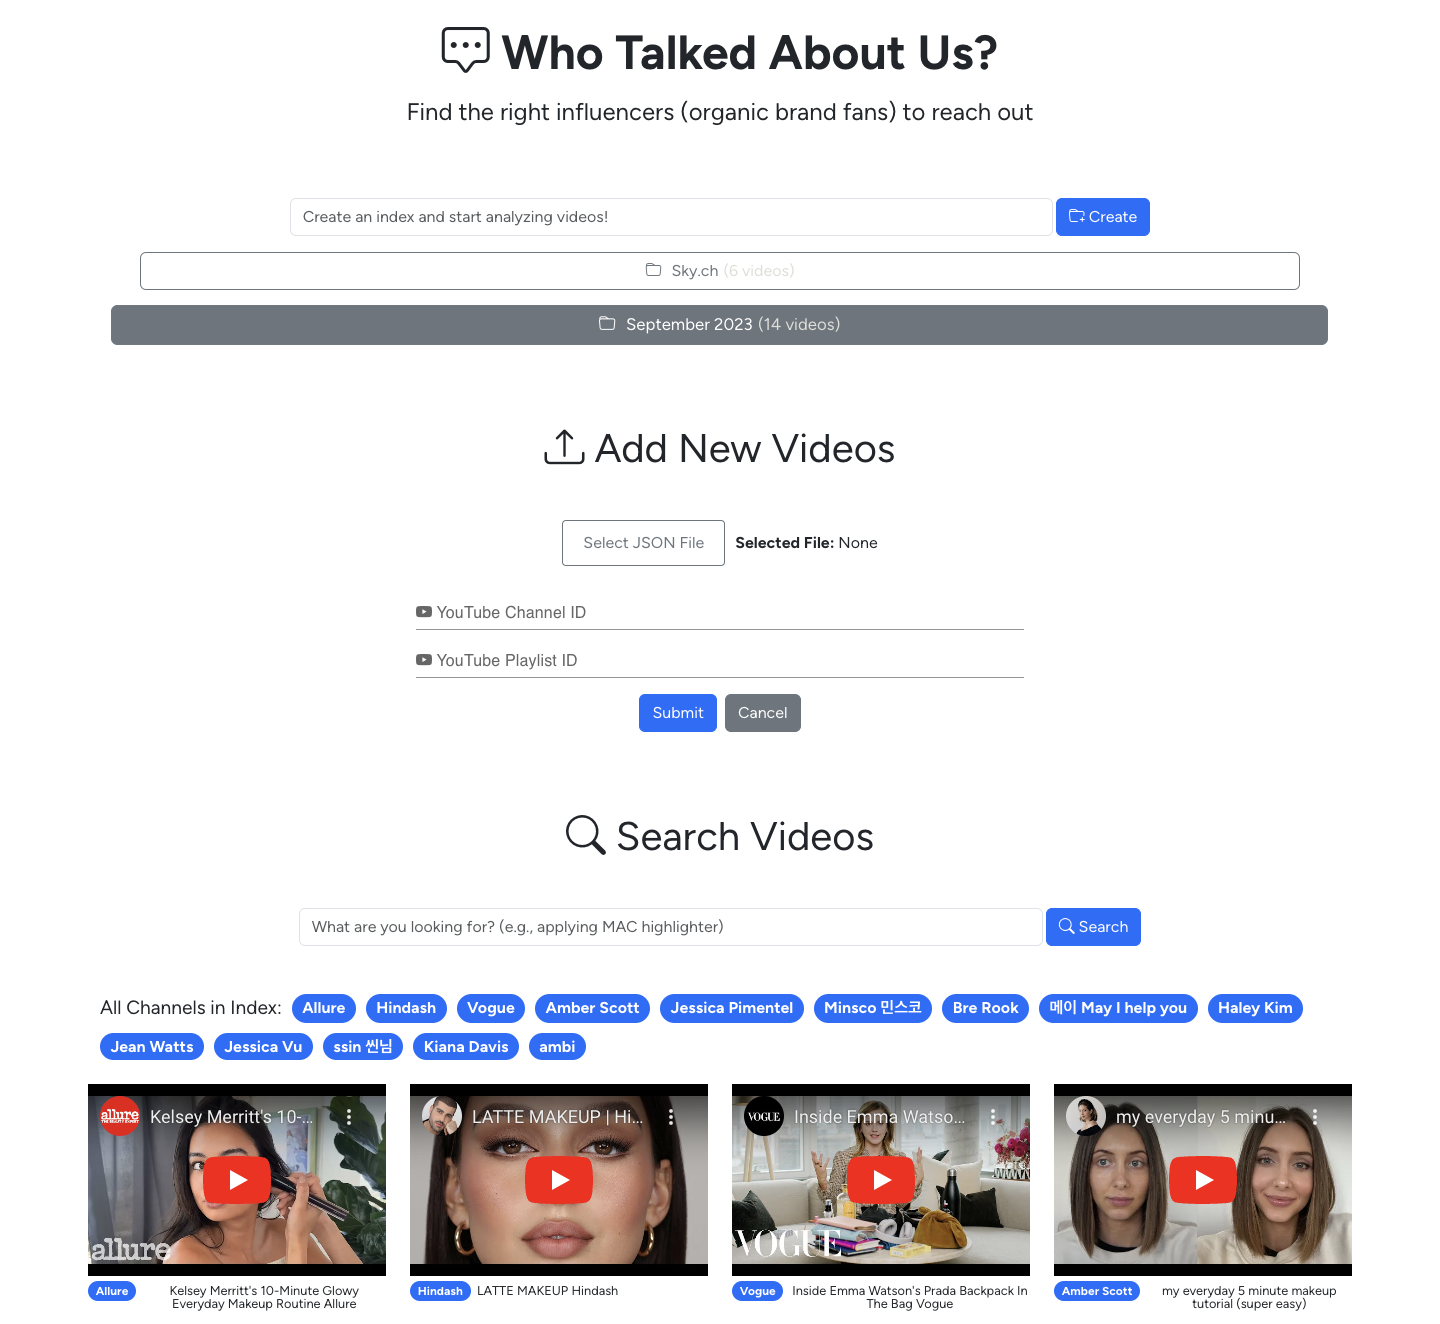
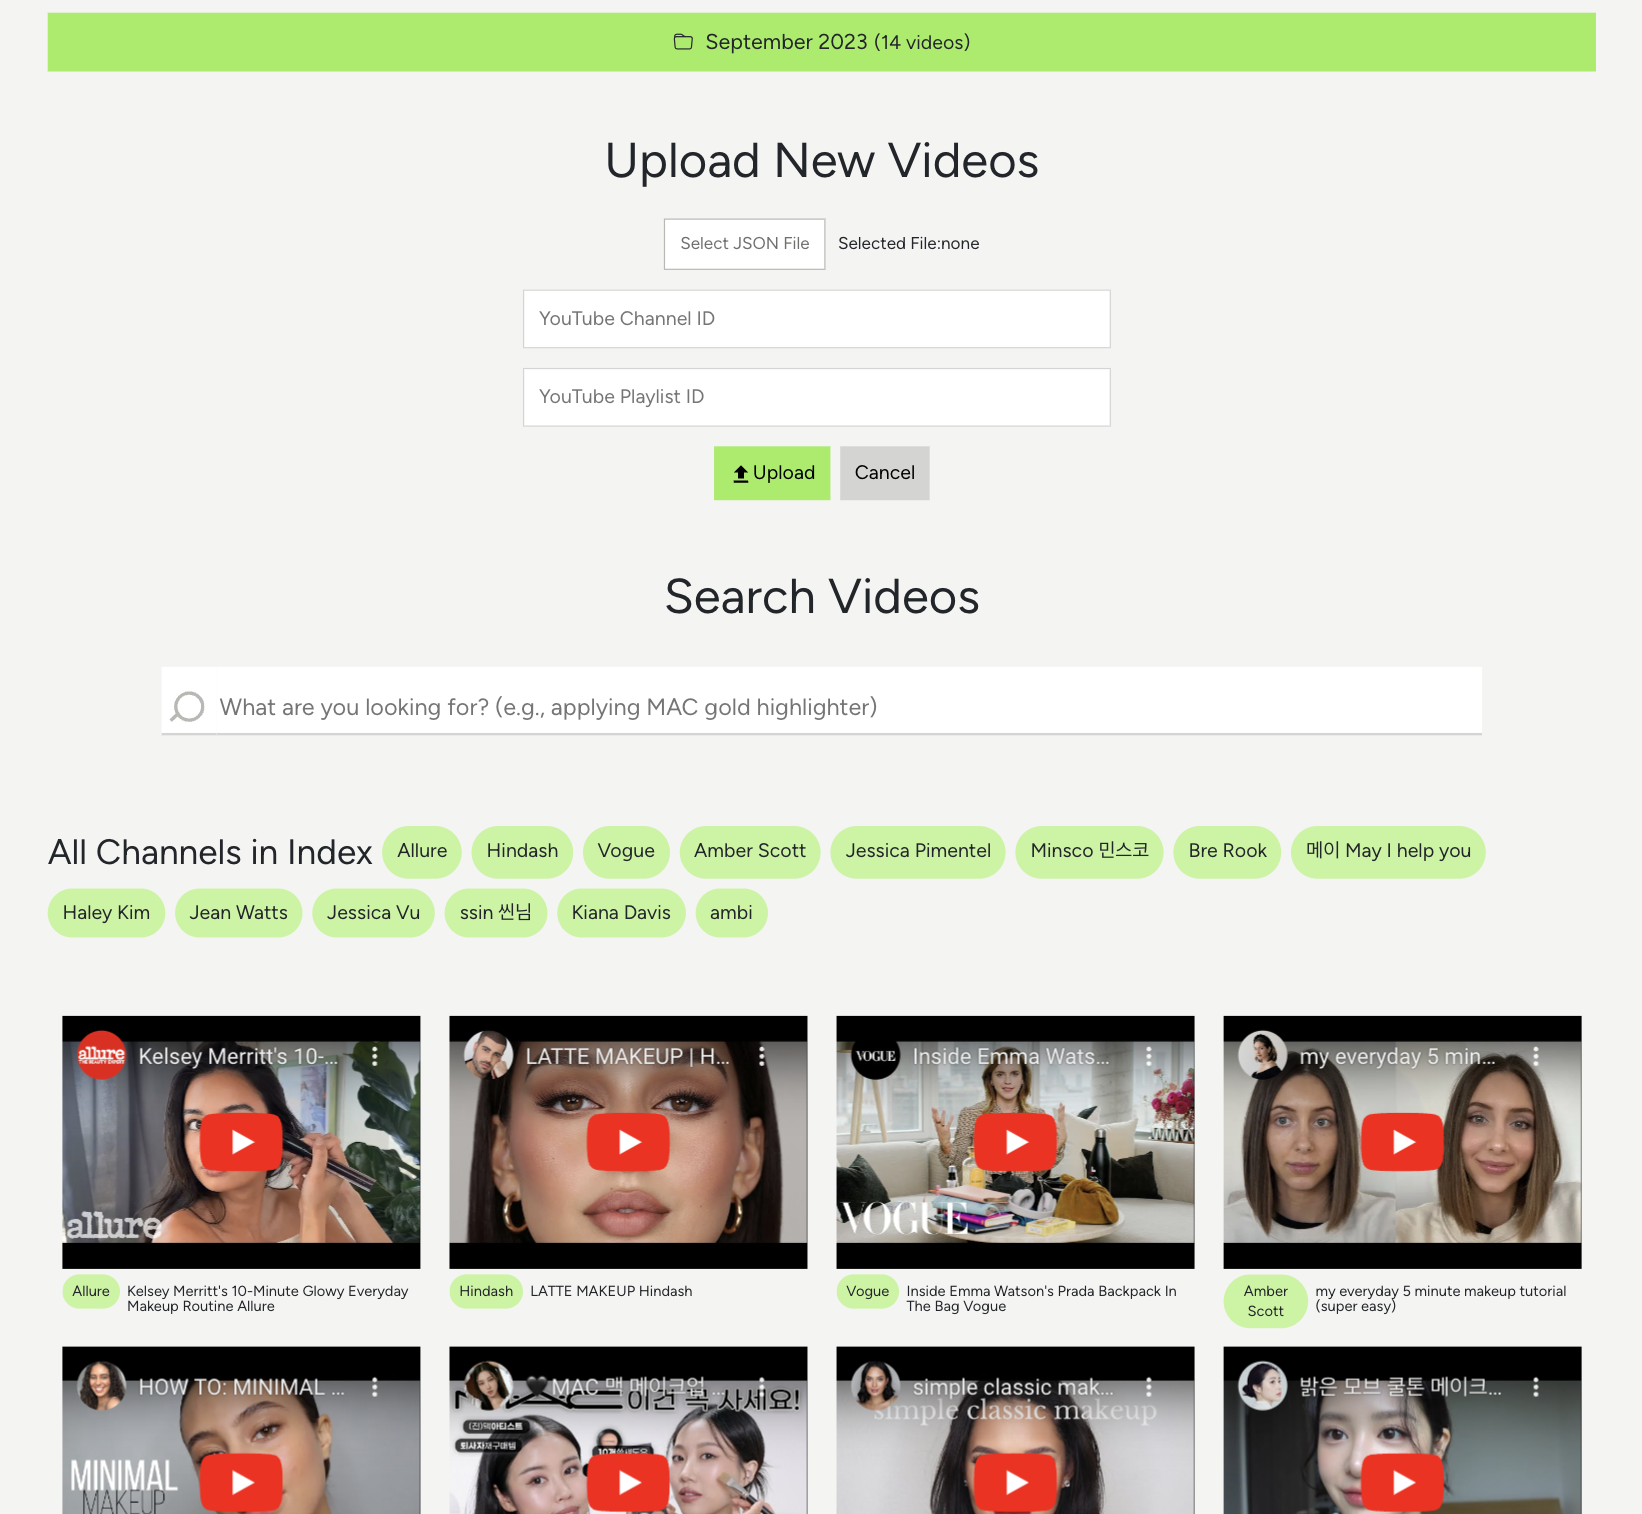
Clean up and update README screenshots

diff --git a/src/indexes/VideoIndex.js b/src/indexes/VideoIndex.js
@@ -2,11 +2,10 @@ import { useState, useEffect } from "react";
 import SearchForm from "../search/SearchForm";
 import TwelveLabsApi from "../api/api";
 import UploadYoutubeVideo from "../videos/UploadYouTubeVideo";
-import { Button, Container, Row, Col, Modal, Alert } from "react-bootstrap";
+import { Button, Container, Row, Modal } from "react-bootstrap";
 import SearchResultList from "../search/SearchResultList";
 import VideoList from "../videos/VideoList";
 import axios from "axios";
-import Badge from "react-bootstrap/Badge";
 import "./VideoIndex.css";
 import CustomPagination from "./CustomPagination";
 

diff --git a/src/videos/UploadYouTubeVideo.jsx b/src/videos/UploadYouTubeVideo.jsx
@@ -1,10 +1,6 @@
 import { useState} from 'react'
-import { Button, Card, Container} from "react-bootstrap";
-import TextField from '@mui/material/TextField'
+import {  Card, Container} from "react-bootstrap";
 import sanitize from 'sanitize-filename'
-import Typography from '@mui/material/Typography'
-import LinearProgress from '@mui/material/LinearProgress'
-import { Box } from '@mui/material'
 import "./UploadYouTubeVideo.css"
 import infoIcon from "../svg/Info.svg"
 

diff --git a/src/search/SearchResultList.js b/src/search/SearchResultList.js
@@ -1,5 +1,5 @@
 import React from "react";
-import { Col, Row, Badge, Container } from "react-bootstrap";
+import { Col, Row, Container } from "react-bootstrap";
 import ReactPlayer from "react-player";
 import { useState, useRef } from "react";
 import "./SearchResultList.css";
@@ -165,7 +165,7 @@ function SearchResultList({ index_id, searchResults, videos }) {
           ))}
         </div>
       )}
-      
+
     </div>
   );
 }

diff --git a/src/App.js b/src/App.js
@@ -55,7 +55,7 @@ function App() {
   return (
     <div className="App">
       <Container className="m-auto p-3">
-        <h1 className="m-3 display-5" style={{ fontWeight: "700" }}>
+        <h1 className="m-3 display-5" >
          Who Talked About Us?
         </h1>
         <h4>Find the right influencers (organic brand fans) to reach out </h4>

diff --git a/src/search/SearchForm.js b/src/search/SearchForm.js
@@ -1,8 +1,5 @@
 import React, { useState } from "react";
 import InputForm from "../common/InputForm";
-import Alert from "@mui/material/Alert";
-import IconButton from "@mui/material/IconButton";
-import CloseIcon from "@mui/icons-material/Close";
 import searchIcon from "../svg/Union.svg";
 import "./SearchForm.css";
 

diff --git a/src/indexes/IndexForm.js b/src/indexes/IndexForm.js
@@ -1,8 +1,5 @@
 import React, { useState } from "react";
 import InputForm from "../common/InputForm";
-import Alert from "@mui/material/Alert";
-import IconButton from "@mui/material/IconButton";
-import CloseIcon from "@mui/icons-material/Close";
 import icon from "../svg/Create.svg";
 import "./IndexForm.css";
 

diff --git a/src/indexes/CustomPagination.js b/src/indexes/CustomPagination.js
@@ -1,5 +1,5 @@
 import React from "react";
-import "./CustomPagination.css"; // Import the CSS file
+import "./CustomPagination.css"; 
 import nextIcon from "../svg/ChevronRight.svg";
 import nextIconDisabled from "../svg/ChevronRightDisabled.svg";
 import prevIcon from "../svg/ChevronLeft.svg";

diff --git a/src/indexes/VideoIndex.test.js b/src/indexes/VideoIndex.test.js
@@ -1,4 +1,4 @@
-import { render, fireEvent, waitFor } from "@testing-library/react";
+import { render } from "@testing-library/react";
 import VideoIndex from "./VideoIndex";
 import TwelveLabsApi from "../api/api";
 

diff --git a/src/videos/VideoList.js b/src/videos/VideoList.js
@@ -1,5 +1,5 @@
 import React from "react";
-import { Col, Badge } from "react-bootstrap";
+import { Col } from "react-bootstrap";
 import ReactPlayer from "react-player";
 import "./VideoList.css";
 

diff --git a/src/common/InputForm.js b/src/common/InputForm.js
@@ -1,6 +1,5 @@
 import React from "react";
 import {useState} from "react";
-import { Container, Form, Button } from "react-bootstrap";
 import "./InputForm.css";
 
 /** User input form
